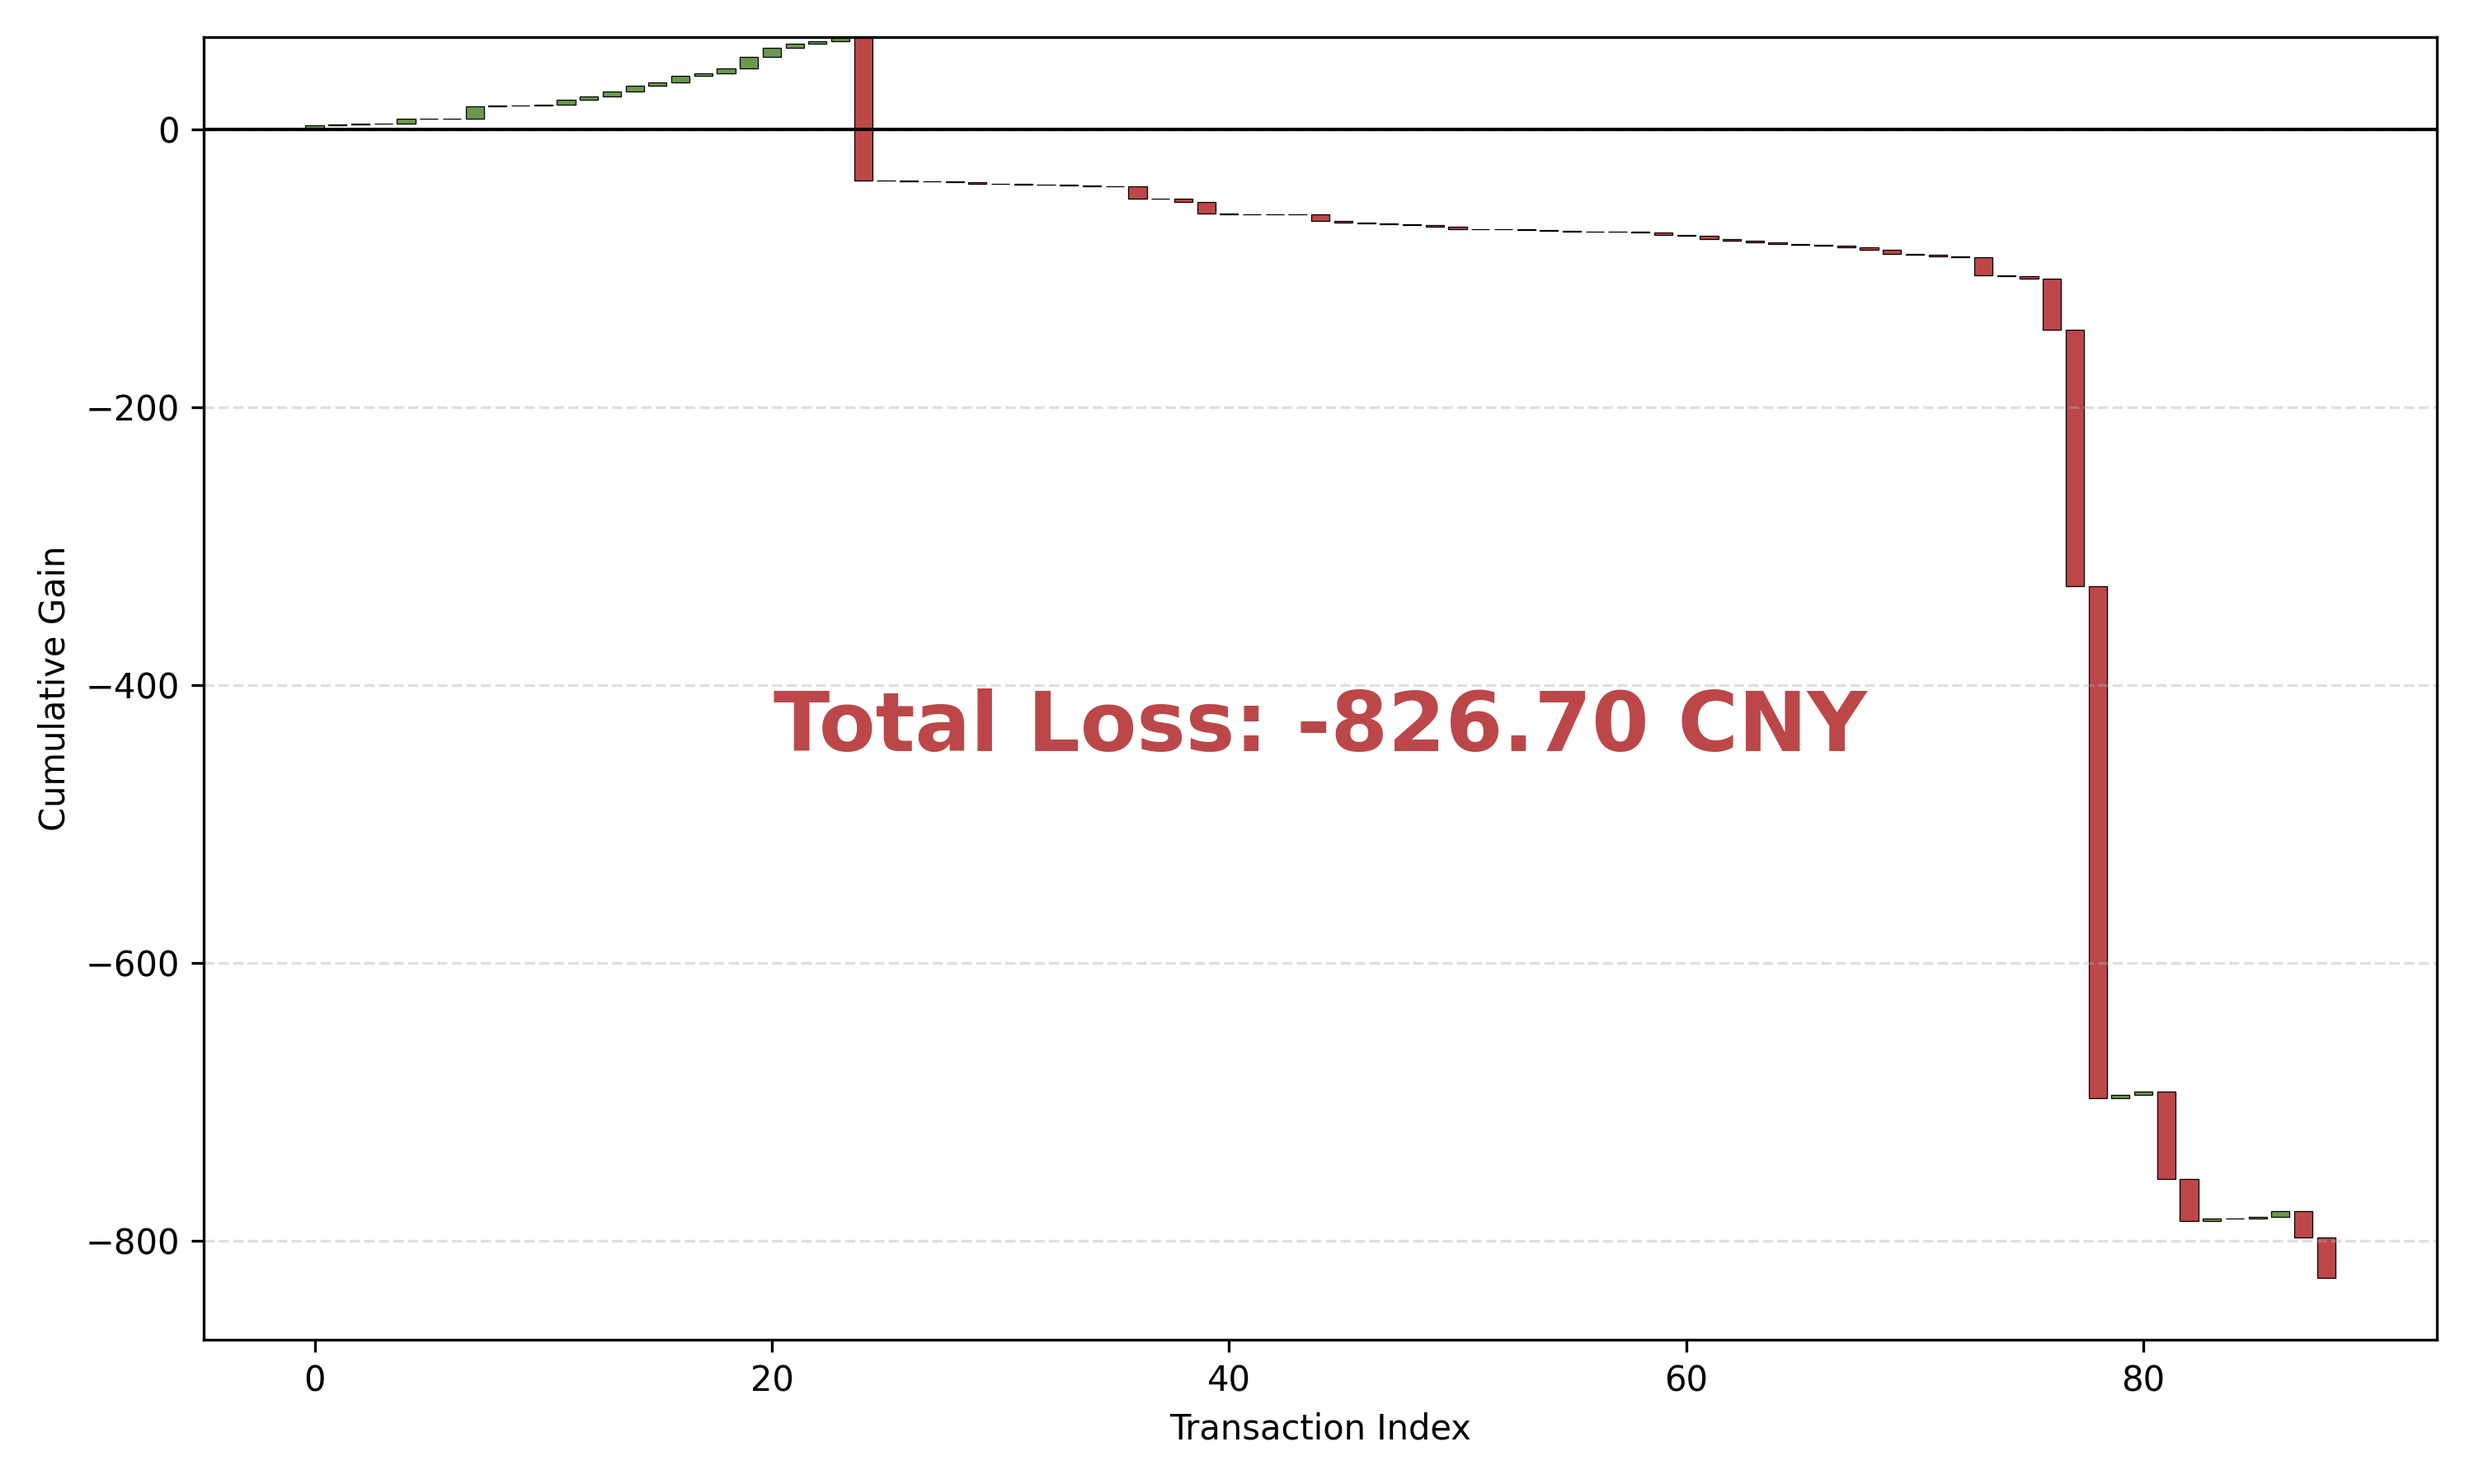
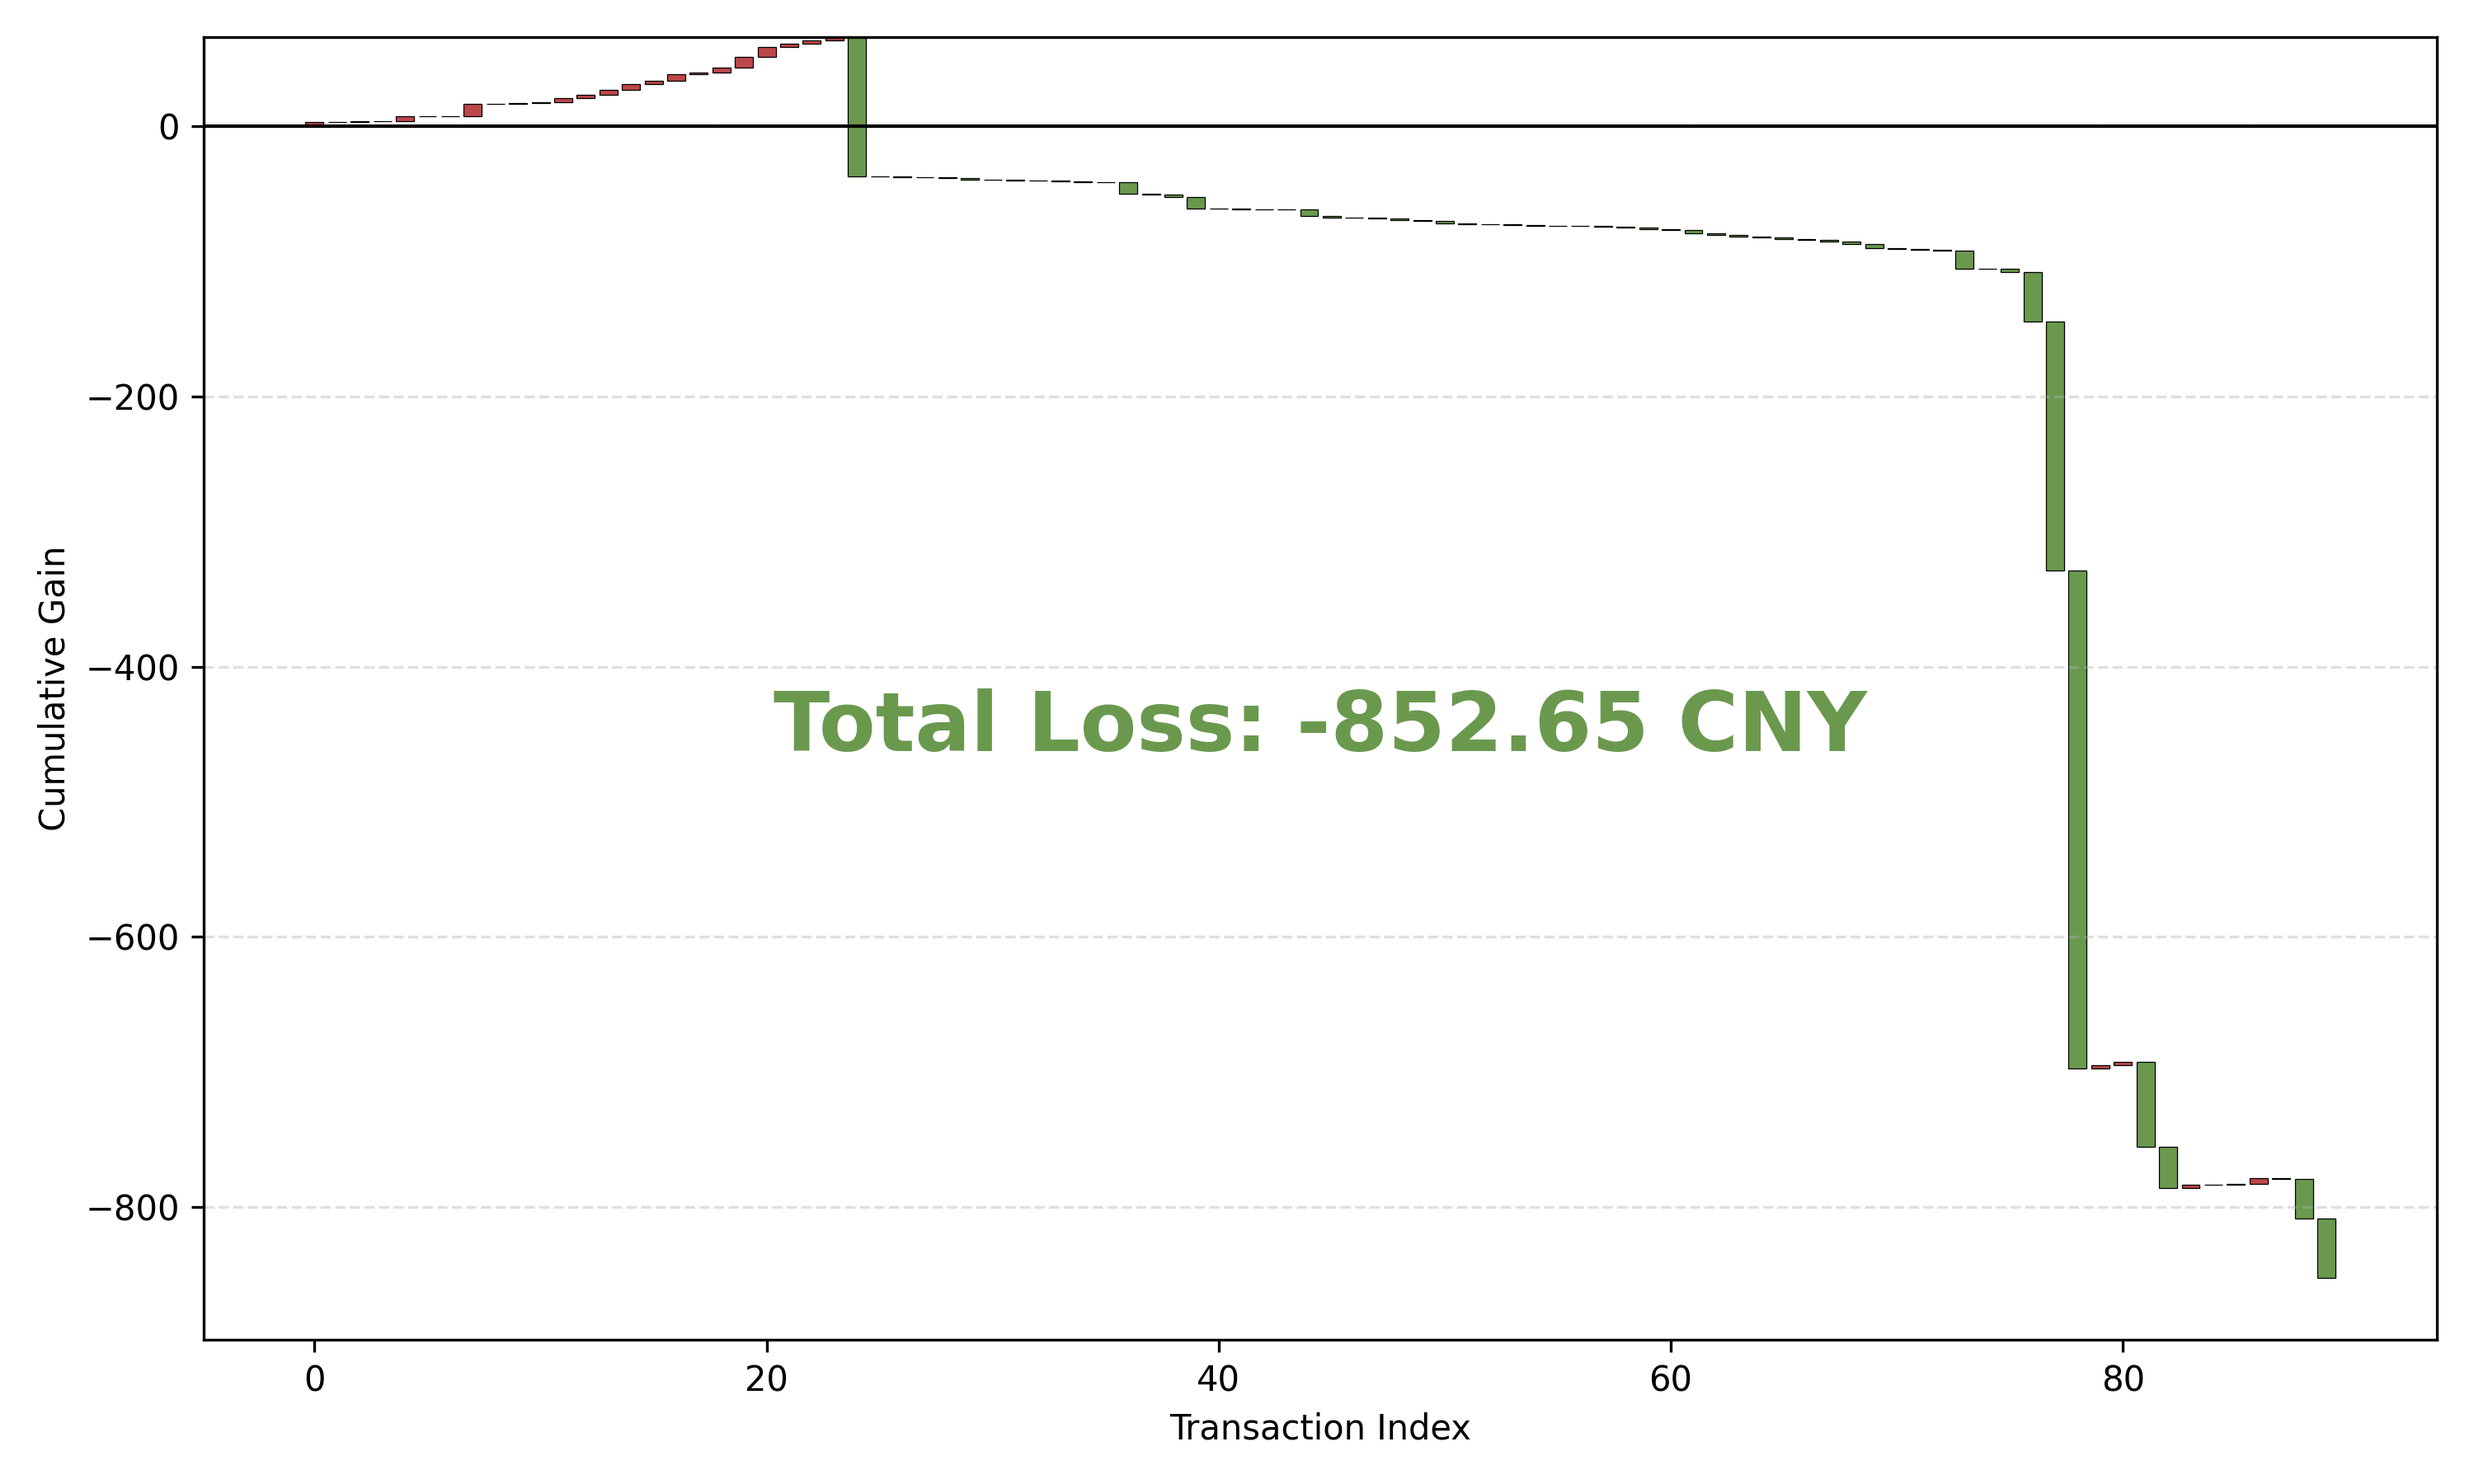
Use green to show loss, red to show profits

diff --git a/waterfall.py b/waterfall.py
@@ -2,6 +2,9 @@
 import pandas as pd
 import matplotlib.pyplot as plt
 
+my_green = '#6a994e'
+my_red = '#bc4749'
+
 # 1. 读数据
 df = pd.read_csv('data.csv')
 df['gain'] = df['Price'] * df['Weight']
@@ -12,7 +15,7 @@ df.reset_index(inplace=True)
 
 # 3. 画图
 plt.figure(figsize=(10, 6))
-colors = ['#6a994e' if g >= 0 else '#bc4749' for g in df['gain']]
+colors = [my_red if g >= 0 else my_green for g in df['gain']]
 
 # 关键：left=前一累计，高度=当前gain
 left = df['cum'] - df['gain']
@@ -27,7 +30,7 @@ total = df['gain'].sum()
 tag = "Totall Profit" if total >= 0 else "Total Loss"
 plt.text(0.5, 0.5, f"{tag}: {total:+.2f} CNY", transform=plt.gca().transAxes,
          ha='center', va='top', fontsize=24, fontweight='bold',
-         color='#6a994e' if total >= 0 else '#bc4749')
+         color=my_red if total >= 0 else my_green)
 
 # 6. 收尾
 plt.xlabel("Transaction Index")
